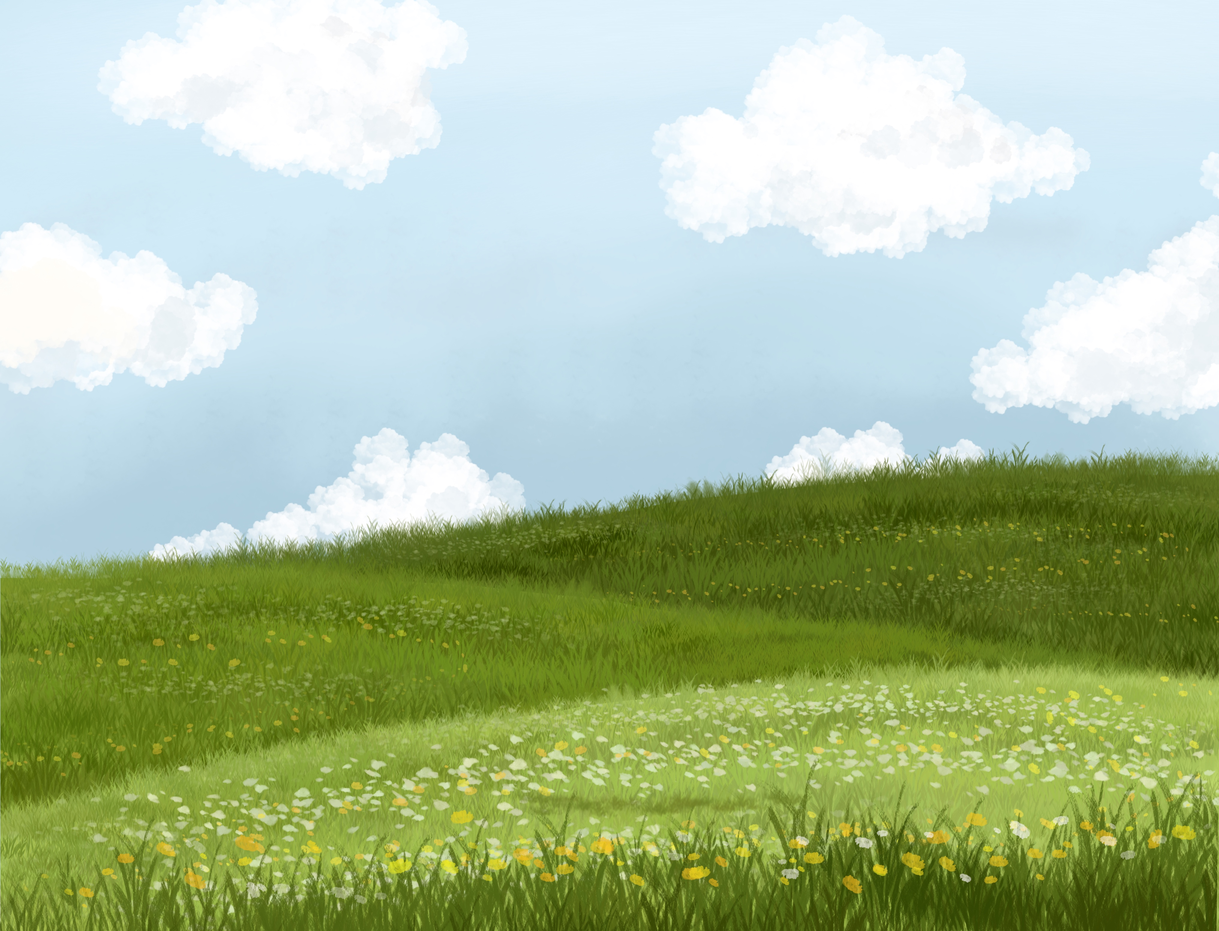
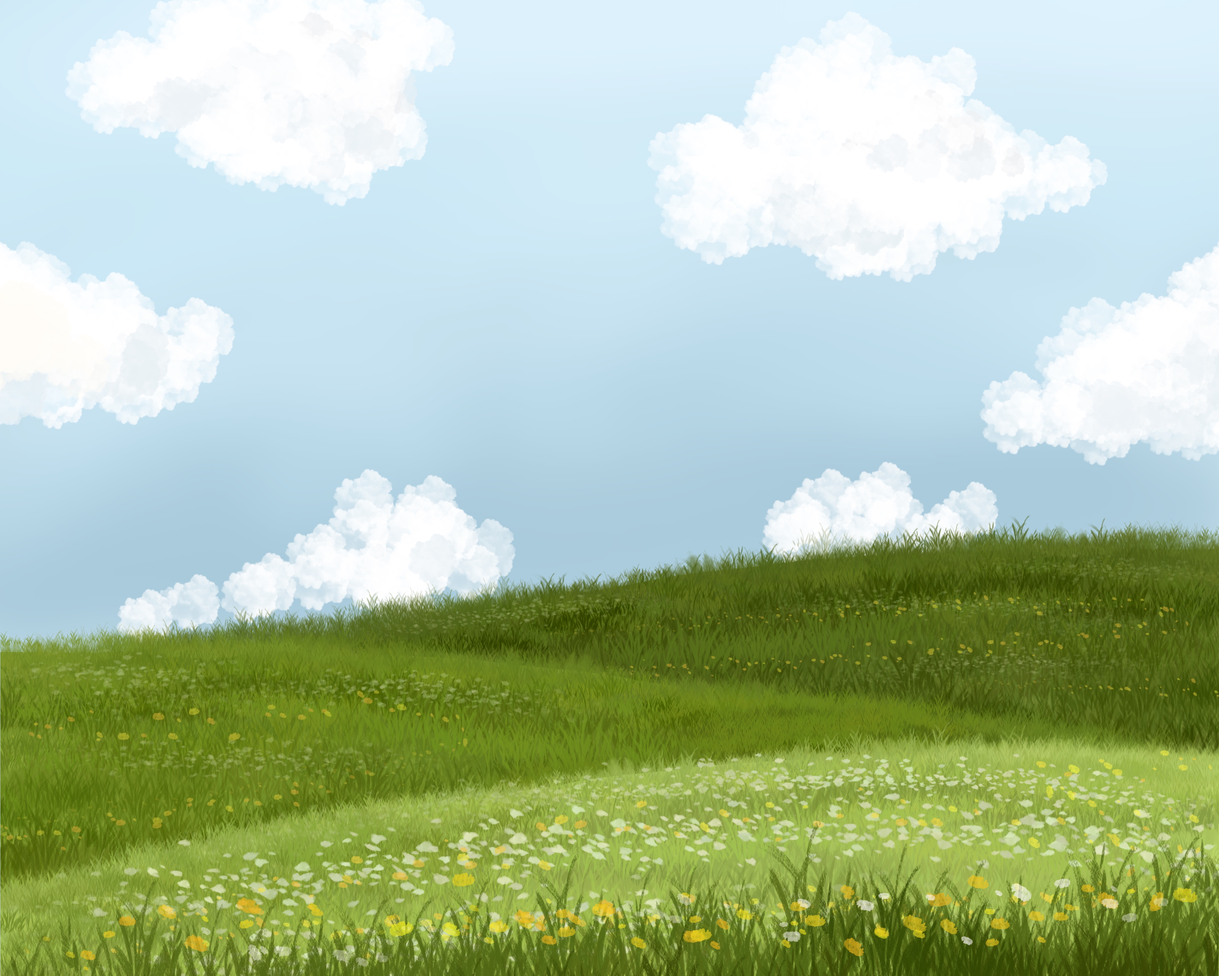
changeBG

diff --git a/app/page.jsx b/app/page.jsx
@@ -9,9 +9,10 @@ export default function Landing() {
 
   return (
     <div
-      className="h-screen bg-cover bg-center flex flex-col"
-      style={{ backgroundImage: "url('/bg1.jpg')" }} // ใช้ bg1.jpg เป็นพื้นหลัง
+      className="h-screen bg-cover flex flex-col bg-top md:bg-center"
+      style={{ backgroundImage: "url('/bg1.jpg')" }}
     >
+
       <div className="flex flex-col justify-start md:pt-[5%] pt-[10%] xl:pt-[4%] px-4 flex-grow items-center">
         <h1 className="text-6xl md:text-7xl font-bold text-maincolor mb-2 md:mb-4 text-center drop-shadow-lg">
           Meiling & Tul
@@ -19,23 +20,23 @@ export default function Landing() {
         <h3 className="text-3xl md:text-4xl font-medium text-[#ACB593] mb-4 md:mb-10 text-center drop-shadow-lg">
           - Wedding Wishes Garden -
         </h3>
-        
-          <div className="flex flex-col md:flex-row space-y-3 md:space-y-0 md:space-x-4 justify-center items-center w-3/4 md:w-full">
-            <Button
-              variant="main" // ใช้ปุ่มแบบ main
-              href="/guestbook"
-              className="w-full md:w-auto"
-            >
-              Join the Event !!
-            </Button>
-            <Button
-              variant="sub" // ใช้ปุ่มแบบ secondary
-              href="/garden"
-              className="w-full md:w-auto"
-            >
-              Visit the Garden
-            </Button>
-            <Button
+
+        <div className="flex flex-col md:flex-row space-y-3 md:space-y-0 md:space-x-4 justify-center items-center w-3/4 md:w-full">
+          <Button
+            variant="main" // ใช้ปุ่มแบบ main
+            href="/guestbook"
+            className="w-full md:w-auto"
+          >
+            Join the Event !!
+          </Button>
+          <Button
+            variant="sub" // ใช้ปุ่มแบบ secondary
+            href="/garden"
+            className="w-full md:w-auto"
+          >
+            Visit the Garden
+          </Button>
+          <Button
             variant="sub2"
             onClick={() => setIsModalOpen(true)}
             className="flex items-center py-2.5 md:py-3 gap-3 w-full md:w-auto justify-center items-center"
@@ -43,8 +44,8 @@ export default function Landing() {
             <span className="font-sriracha text-lg whitespace-nowrap">ส่งใจ ใส่ซอง</span>
             <img src="/songicon.svg" alt="Song Icon" className="w-6 h-6 mb-1" />
           </Button>
-          </div>
-          
+        </div>
+
 
 
       </div>

diff --git a/app/globals.css b/app/globals.css
@@ -73,6 +73,17 @@ body4 {
   background-repeat: no-repeat; /* ไม่ให้รูปซ้ำ */
 }
 
+.bg-mobile-position {
+  background-position: top;
+}
+
+@media (min-width: 768px) {
+  .bg-desktop-position {
+    background-position: bottom -10%;
+  }
+}
+
+
 .box-background {
   background-color: rgba(255, 255, 255, 0.5); /* สีขาวความทึบ 50% */
   border-radius: 16px; /* มุมโค้ง 16px */
